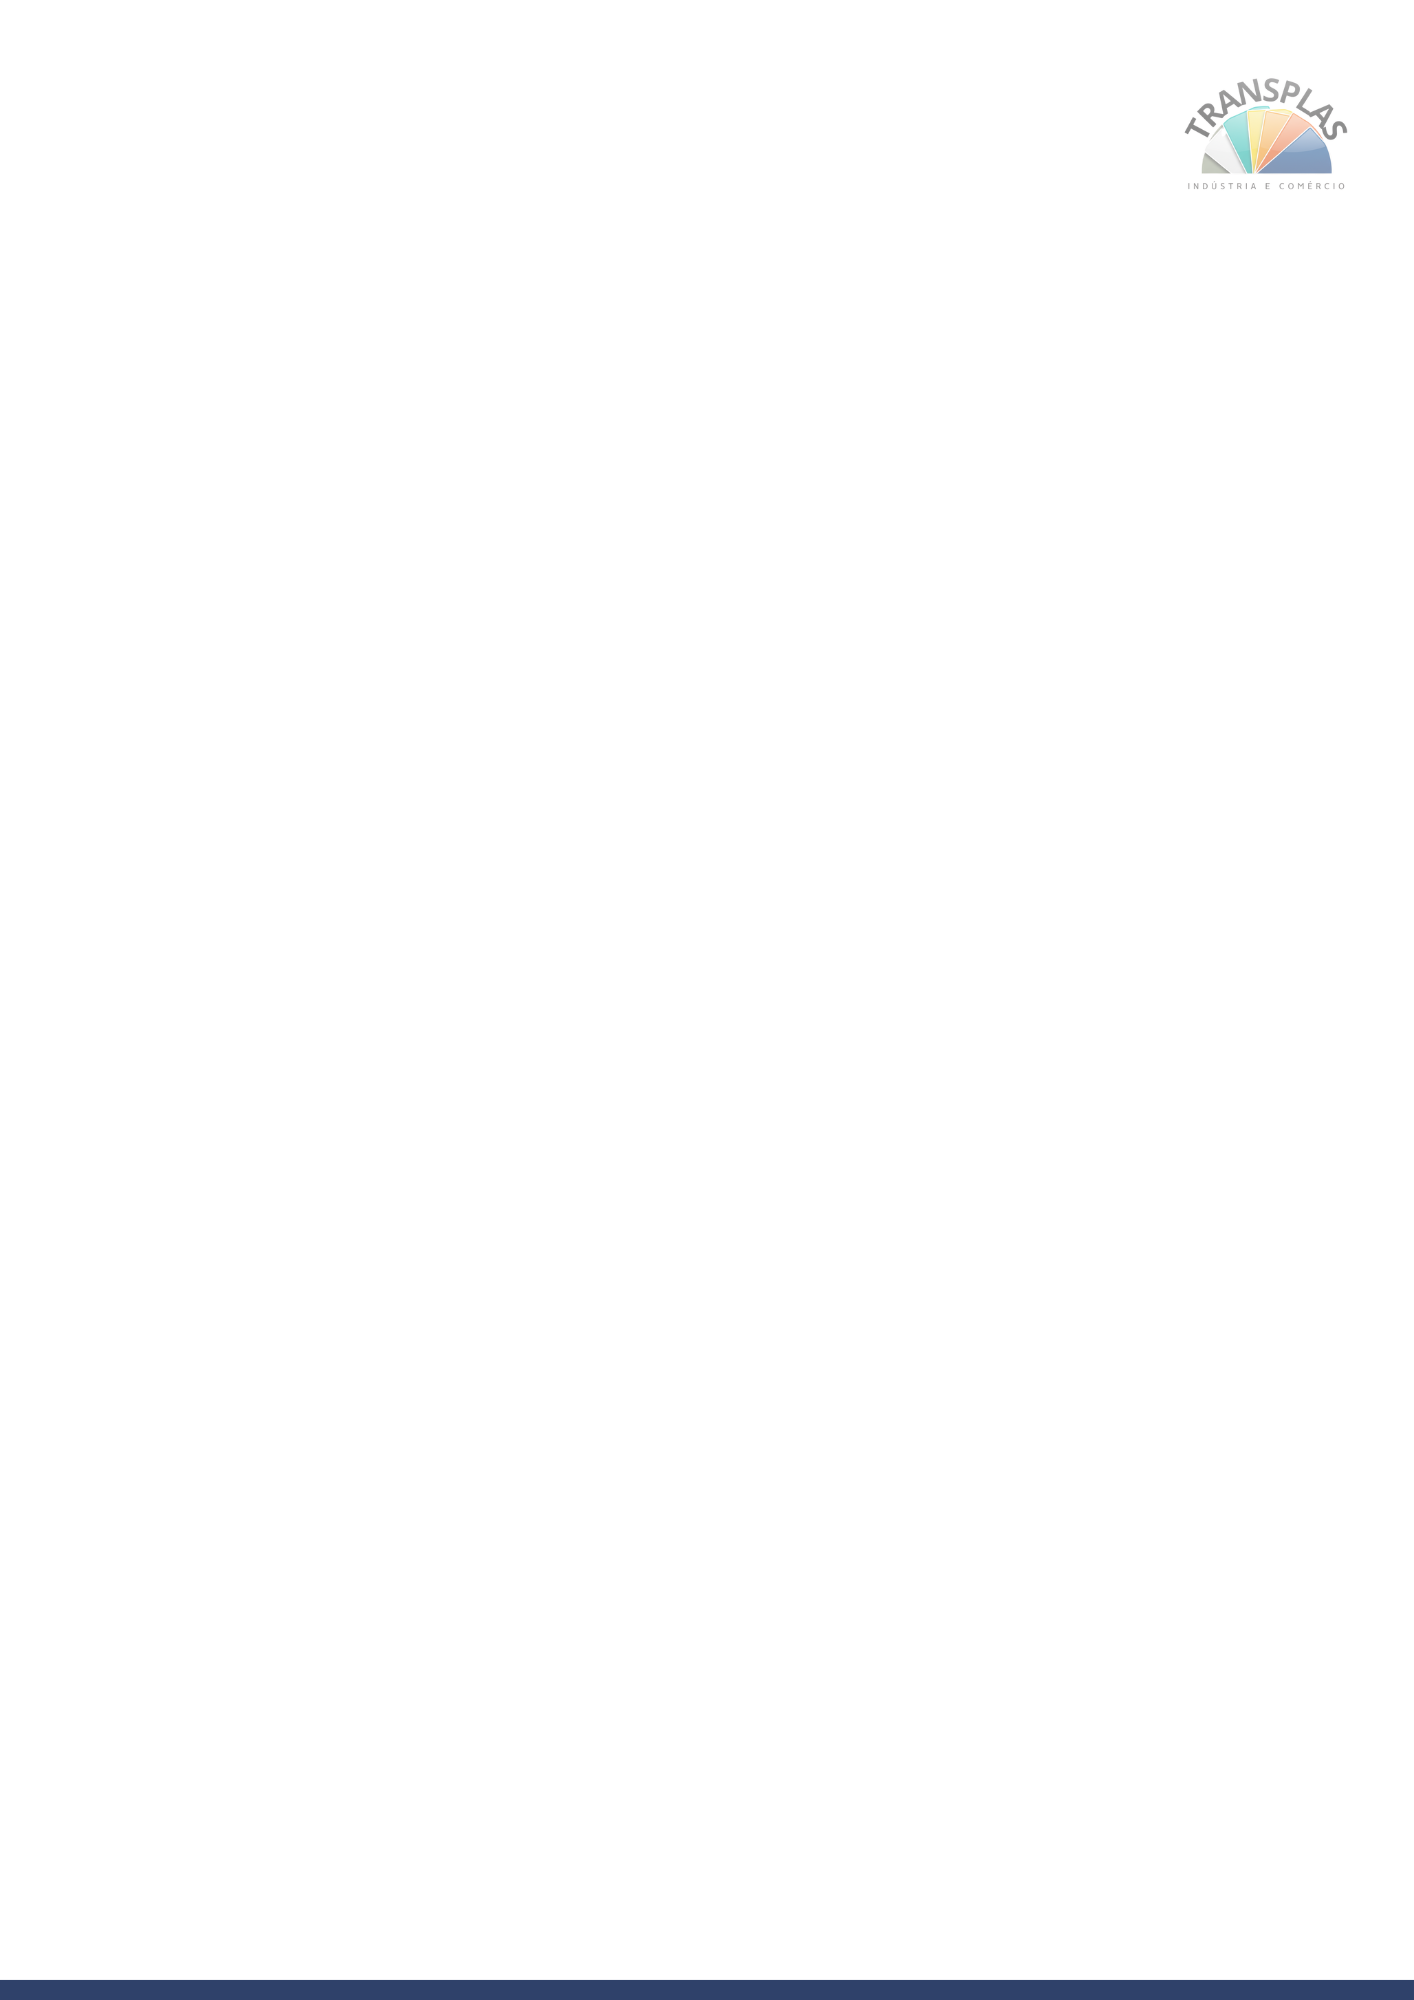
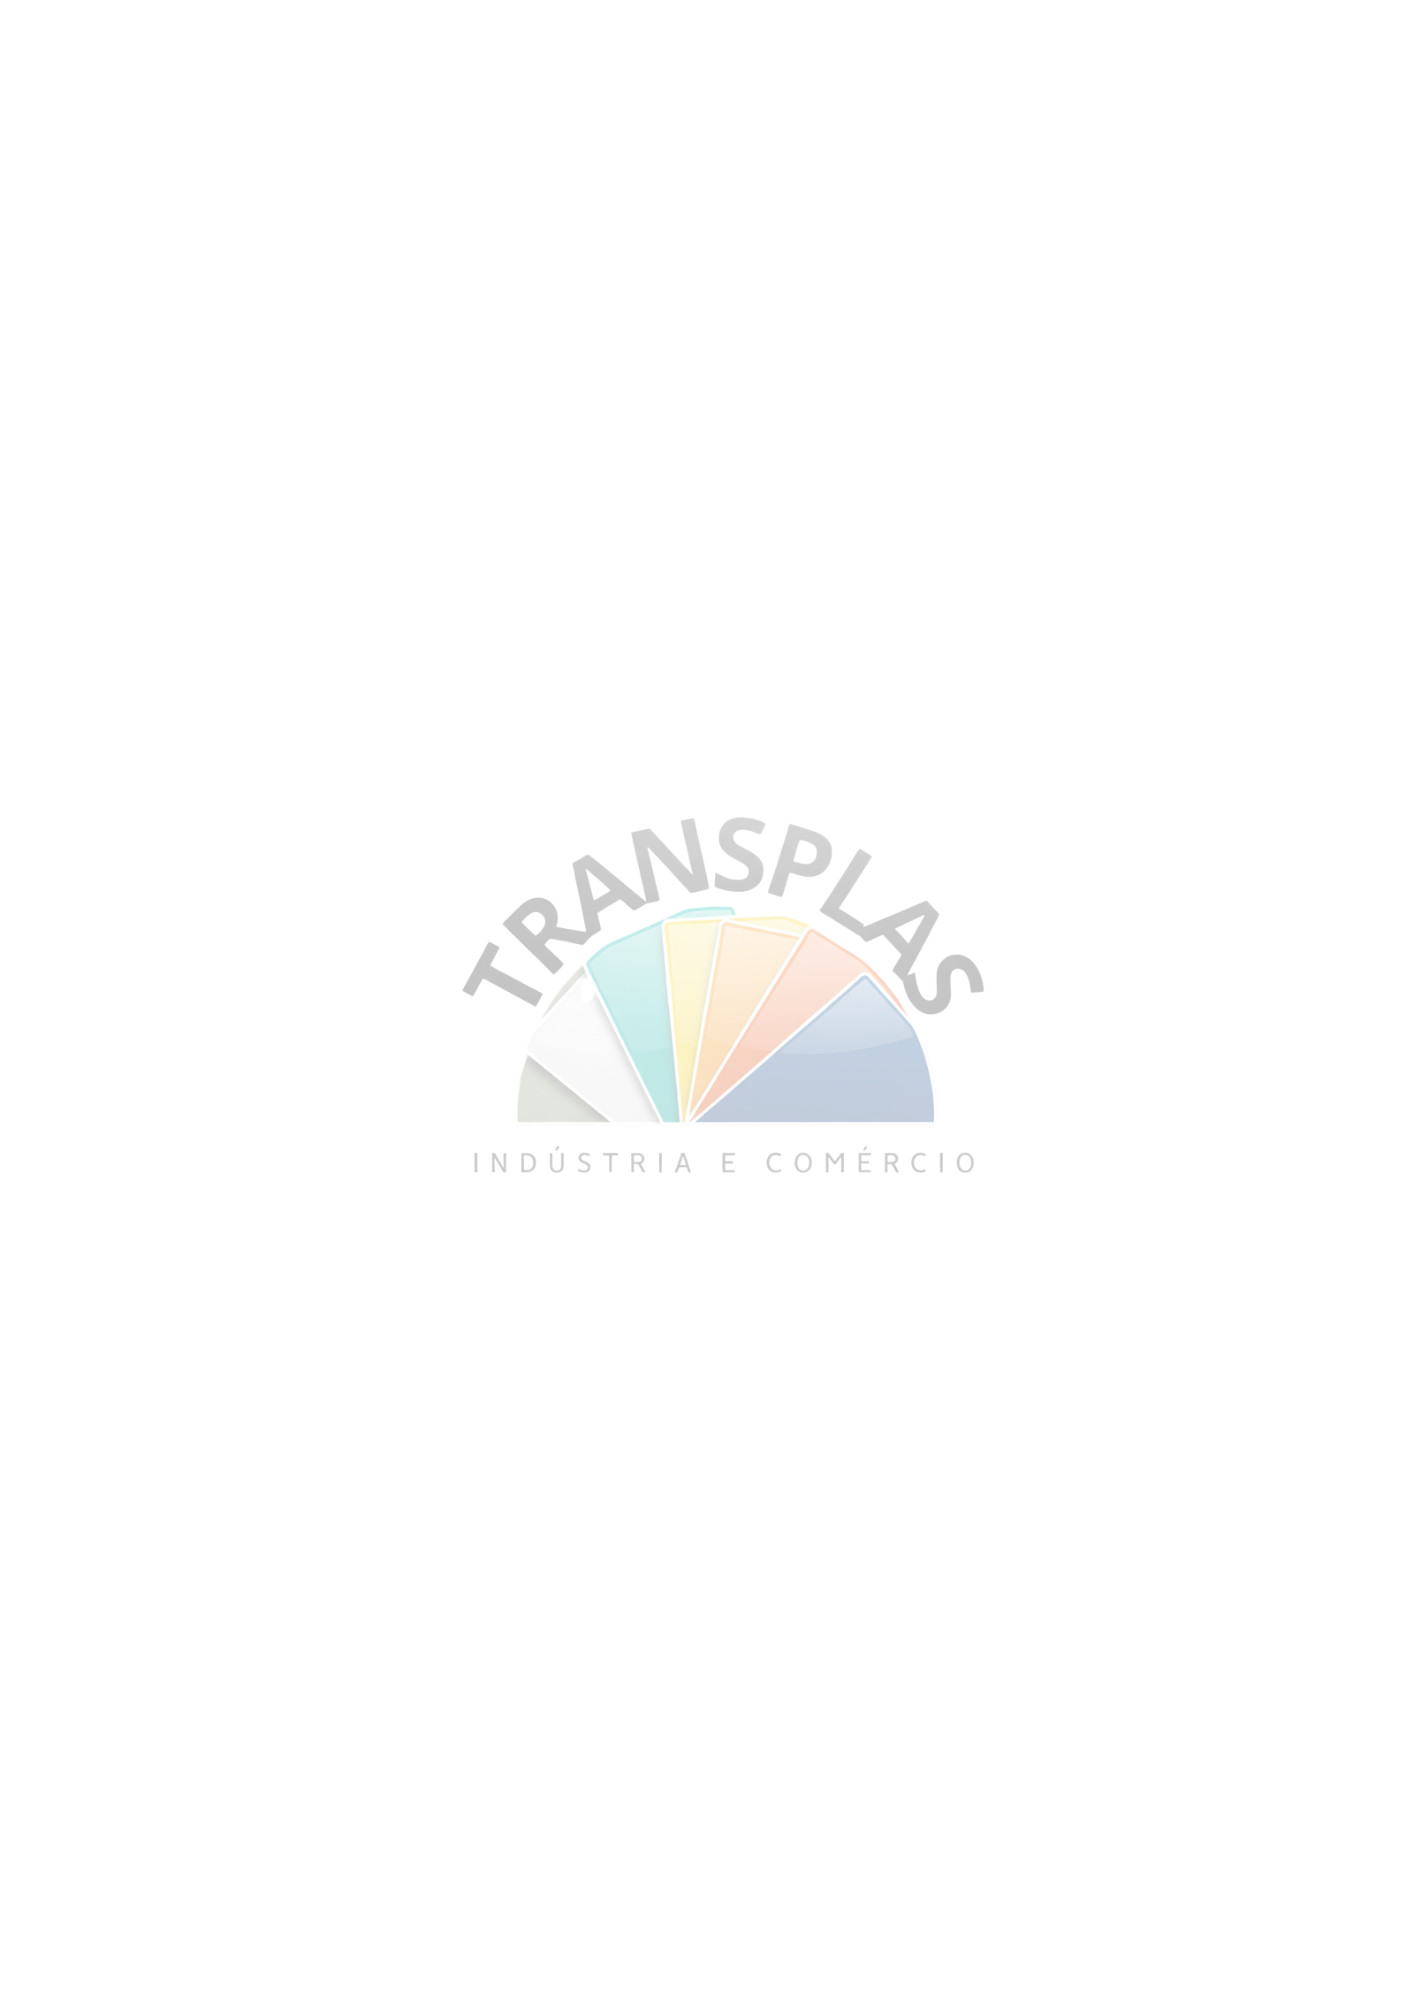
ajuste10

Changed region(s): [[0.3112, 0.403, 0.7157, 0.589], [0.0, 0.992, 1.0, 1.0], [0.8402, 0.031, 0.9646, 0.093]]

diff --git a/template.html b/template.html
@@ -9,13 +9,11 @@
      azul escuro:      #2b5f86
      azul rótulos:     #2f4f6a
      texto escuro:     #1f3b5b
-     cabeçalho tabela: #d7ebf9
      borda suave:      #cfe5f6
      caixa suave:      #eaf5fc
-     zebra clara:      #fafcff
   */
 
-  /* Marca d’água em todas as páginas */
+  /* Marca d’água em todas as páginas (use PNG transparente) */
   @page {
     size: A4 portrait;
     margin: 12mm;
@@ -65,35 +63,37 @@
     font-weight:700; color:#1f3b5b;
   }
 
-  /* Tabela de itens */
+  /* Tabela de itens — TRANSPARENTE (mostra a watermark ao fundo) */
   .items-table{ width:100%; border-collapse:collapse; table-layout:fixed; margin-top:6px; }
   .items-table thead th{
-    background:#d7ebf9;
+    /* sem background para transparência */
+    background: transparent;
     color:#1f3b5b;
-    padding:8px 6px;
+    padding:6px 6px;
     font-size:10pt;
     text-align:left;
-    border-bottom:2px solid #cfe5f6;
+    border-bottom:2px solid #cfe5f6; /* só linha inferior */
   }
   .items-table thead th.text-right{ text-align:right; }
-
-  /* Zebra via classes (compatível com xhtml2pdf) */
-  .zebra-odd { background:#fafcff; }
-  .zebra-even{ background:#ffffff; }
-
   .items-table tbody td{
-    padding:8px 6px; border-bottom:1px solid #eee; vertical-align:top; font-size:8.8pt;
+    padding:6px 6px;
+    border-bottom:1px solid #e6eaf0;  /* linhas finas */
+    vertical-align:top; font-size:8.8pt;
+    background: transparent;          /* sem preenchimento */
   }
   .value-cell{ text-align:right; letter-spacing:.2px; }
 
-  /* Tabela de Totais (vertical à direita) */
+  .item-desc{ font-weight:700; margin:0 0 4px 0; color:#1f3b5b; }
+  .item-sub{ margin:0; font-size:8pt; color:#555; line-height:1.3; }
+
+  /* Tabela de Totais (VERTICAL, MENOR, no canto direito) */
   .summary-wrapper{ width:100%; margin-top:10px; }
   .summary{
-    width:50%;
+    width:40%;              /* <<< mais estreita (ajuste aqui: 35–45%) */
     float:right;
     border-collapse:collapse;
     font-size:9pt;
-    background:#f9fbfe;
+    background:#f9fbfe;     /* leve caixa */
     border:1px solid #cfe5f6;
   }
   .summary td{ padding:6px 8px; }
@@ -178,7 +178,7 @@
   </thead>
   <tbody>
     {% for item in itens %}
-    <tr class="{% if loop.index0 % 2 == 0 %}zebra-odd{% else %}zebra-even{% endif %}">
+    <tr>
       <td>
         <div class="item-desc">{{ item.descricao }}</div>
         <div class="item-sub">
@@ -195,7 +195,7 @@
   </tbody>
 </table>
 
-<!-- RESUMO VERTICAL (direita) -->
+<!-- RESUMO VERTICAL (menor, canto direito) -->
 <div class="summary-wrapper">
   <table class="summary">
     <tr>
